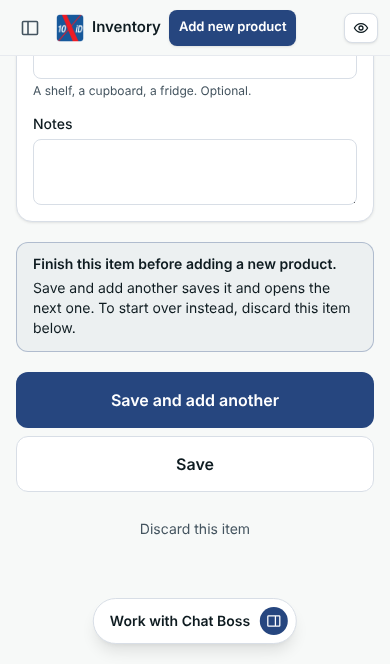
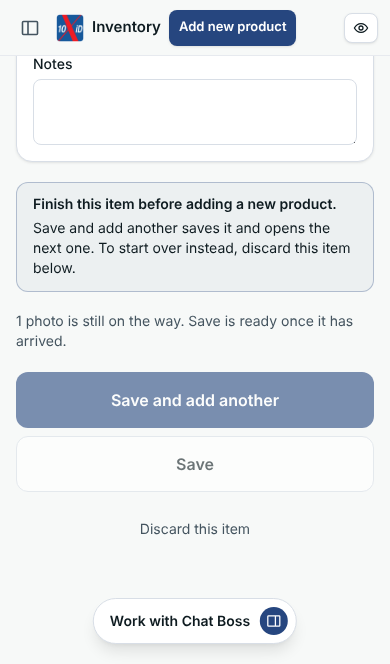
app#41 evidence at c88283f, extended: 47/47 — a photo waiting offline, the same link again after scrolling away, typed status and amounts kept, saved and discarded pages, the menu at 320 px
Claude-Session: https://claude.ai/code/session_01UhNSkxnQSh2VTsm9m65vyB

diff --git a/app41-c88283f/README.md b/app41-c88283f/README.md
@@ -1,10 +1,11 @@
 # app#41 · Add new product in the top bar — emulated iPhone evidence
 
-**43/43 checks passed** · app `c88283f` (production build `gJ5vR35VH3A4_ldgheP2b`, `next build --webpack`) · 2026-10-20T02:41:49.852Z
+**47/47 checks passed** · app `c88283f` (production build `gJ5vR35VH3A4_ldgheP2b`, `next build --webpack`) · 2026-10-20T02:50:24.253Z
 
 - Browser: Chromium 141.0.7390.37 (Playwright `devices["iPhone 13"]`: 390×664 CSS px, DPR 3, touch, iOS Safari user agent), and the same descriptor at 375×548, 360×640 and 320×480. **Desktop emulation, not Safari on an iPhone**: no real iOS keyboard, toolbar or safe area.
 - Scrolling: a finger dragged over `main` (CDP `Input.dispatchTouchEvent`), repeated until it stops moving.
 - Database: PostgreSQL 18.4 with 50 login migrations applied, built by rebuild-db.sh from login 631c28f + seed; app connects as portal_app (RLS). Media store and label reader are local stand-ins. Owner, business and photos are synthetic.
+- Offline on purpose (Q1–U5): the browser logged 5 failed request(s) while offline, listed in results.json and not counted as errors.
 
 | | Check | Detail |
 |---|---|---|
@@ -14,26 +15,29 @@
 | ✅ S1 | From the list, Add new product opens the start page; 4 taps and a plain GET make no item | items 0 before, 0 after; GET /inventory/capture 200 |
 | ✅ H4 | 390 px, start page: Add new product immediately right of Inventory, one line, nothing cut off or off the screen | title 92–161, Add new product 169–296.5 (8px after the title), Preview iD 344–378, icon only, mark shown, overflow 0/0 |
 | ✅ S2 | Start (the existing button) makes one item and opens its camera |  |
+| ✅ Q1 | Offline, a fourth photo waits on the phone (IndexedDB) and Save waits for it; everything typed is in the form | name "Synthetic cacao powder (test)", brand "Synthetic Co.", open / estimate 120, label 250 g, lot SYN-0001, photos 3 sent + 1 waiting, browser offline |
 | ✅ H5 | 390 px, item being catalogued: Add new product immediately right of Inventory, one line, nothing cut off or off the screen | title 92–161, Add new product 169–296.5 (8px after the title), Preview iD 344–378, icon only, mark shown, overflow 0/0 |
 | ✅ H6 | On an unsaved item, Add new product is the jump to the note on the same page | href #finish-this-item |
-| ✅ P1 | 390 px, long item page at the top: bar at the top, main below it | bar top 0px, main from 56px scrolled 0/1834px, frame scrolled 0px, page scrolled 0px |
-| ✅ P2 | Swiped to the bottom: only main scrolled; the bar is still at the top | bar top 0px, main from 56px scrolled 1834/1834px, frame scrolled 0px, page scrolled 0px |
-| ✅ U1 | Unsaved item, Add new product from the top of the page: same page, scrolled to the note above Save and add another | /inventory/capture/a6eff174-a8ba-4133-aeb9-1a219921be46#finish-this-item; note shown true, in view true; Save and add another in view true; Discard in view true |
+| ✅ P1 | 390 px, long item page at the top: bar at the top, main below it | bar top 0px, main from 56px scrolled 0/2418px, frame scrolled 0px, page scrolled 0px |
+| ✅ P2 | Swiped to the bottom: only main scrolled; the bar is still at the top | bar top 0px, main from 56px scrolled 2418/2418px, frame scrolled 0px, page scrolled 0px |
+| ✅ U1 | Unsaved item, Add new product from the top of the page: same page, scrolled to the note above Save and add another | /inventory/capture/78eacd32-29b3-40db-8901-7f883f778e7f#finish-this-item; note shown true, in view true; Save and add another in view true; Discard in view true |
 | ✅ U2 | The note has focus (read out by a screen reader); the bar stays on screen, above it | focused true, bar on screen true, note below the bar true |
-| ✅ U3 | Nothing lost or started: typed name, 3 photos and the open item as they were; no new item | name "Synthetic cacao powder (test)", photos 3, items 1 (was 1) |
+| ✅ U3 | Nothing lost or started: name, brand, Opened, about 120 g, label 250 g, lot, 3 photos sent and 1 still waiting on the phone; the item still open; no new item | name "Synthetic cacao powder (test)", brand "Synthetic Co.", open / estimate 120, label 250 g, lot SYN-0001, photos 3 sent + 1 waiting, browser offline; queued on the phone 1; items 1 (was 1) |
 | ✅ U4 | The note says to finish it with Save and add another, or discard it | Finish this item before adding a new product. Save and add another saves it and opens the next one. To start over instead, discard this item below. |
-| ✅ P3 | After the jump the bar is still at the top: only main moved | bar top 0px, main from 56px scrolled 1964/1964px, frame scrolled 0px, page scrolled 0px |
-| ✅ U5 | Tapped twice more: still the same item and form, still no new item |  |
-| ✅ F1 | Notes (near the end) focused from the top: scrolled into view in main, below the bar | {"top":339,"bottom":405,"barBottom":56,"mainBottom":664,"active":"notes"} |
-| ✅ N1 | Save and add another still saves, and opens the next item saying what was saved | item 1 confirmed; next item open |
+| ✅ P3 | After the jump the bar is still at the top: only main moved | bar top 0px, main from 56px scrolled 2548/2548px, frame scrolled 0px, page scrolled 0px |
+| ✅ U5 | Scrolled away (the note off screen, focus in Name), the same link tapped again: back at the note, focused again; the form and the waiting photo unchanged; no new item | note was off screen true; now in view true, focused true, bar on screen true; name "Synthetic cacao powder (test)", brand "Synthetic Co.", open / estimate 120, label 250 g, lot SYN-0001, photos 3 sent + 1 waiting, browser offline |
+| ✅ Q2 | Back online, the waiting photo is sent on its own (4 photos, none left on the phone); Save is ready; the form as typed | name "Synthetic cacao powder (test)", brand "Synthetic Co.", open / estimate 120, label 250 g, lot SYN-0001, photos 4 sent + 0 waiting, browser online |
+| ✅ F1 | Notes (near the end) focused from the top: scrolled into view in main, below the bar | {"top":338,"bottom":404,"barBottom":56,"mainBottom":664,"active":"notes"} |
+| ✅ N1 | Save and add another still saves what was typed (Opened), and opens the next item saying what was saved | item 1 confirmed; container {"status":"open","label":250,"unit":"g","lot":"SYN-0001","name":"Synthetic cacao powder (test)"}; next item open |
 | ✅ N2 | The next item arrives with the note hidden |  |
 | ✅ U6 | On the next item (still empty) Add new product shows the note too, and starts nothing |  |
 | ✅ U7 | Discard this item discards it and returns to the list |  |
 | ✅ H7 | 390 px, list with an item: Add new product immediately right of Inventory, one line, nothing cut off or off the screen | title 92–161, Add new product 169–296.5 (8px after the title), Preview iD 344–378, icon only, mark shown, overflow 0/0 |
-| ✅ H8 | A saved item's page: Add new product goes to the start page | href /inventory/capture |
+| ✅ H8 | A saved item's page: Add new product opens the start page; no item made | "Saved" shown true; href /inventory/capture; items 2 → 2 |
+| ✅ H8b | A discarded item's page: Add new product opens the start page; no item made | "Discarded" shown true; href /inventory/capture; items 2 → 2 |
 | ✅ H9 | 390 px, container page: Add new product immediately right of Inventory, one line, nothing cut off or off the screen | title 92–161, Add new product 169–296.5 (8px after the title), Preview iD 344–378, icon only, mark shown, overflow 0/0 |
-| ✅ P4 | 390 px, container page at the top: bar at the top | bar top 0px, main from 56px scrolled 0/1271px, frame scrolled 0px, page scrolled 0px |
-| ✅ P5 | Swiped to the bottom of the container page: the bar is still at the top | bar top 0px, main from 56px scrolled 1271/1271px, frame scrolled 0px, page scrolled 0px |
+| ✅ P4 | 390 px, container page at the top: bar at the top | bar top 0px, main from 56px scrolled 0/1367px, frame scrolled 0px, page scrolled 0px |
+| ✅ P5 | Swiped to the bottom of the container page: the bar is still at the top | bar top 0px, main from 56px scrolled 1367/1367px, frame scrolled 0px, page scrolled 0px |
 | ✅ M1 | From the bottom of the page the menu opens, with Inventory and iD | 10XiD, Home, Orders, Quotes, Jobs, Inventory, Products, Customers, Growth, Discounts, Content, Markets, Finance, Analytics, Channels, iD, Add channel, Team, Settings |
 | ✅ S3 | From the bottom of a container page, Add new product opens the start page; no item made | items 2 → 2 |
 | ✅ W375a | 375 px, inventory list: Add new product immediately right of Inventory, one line, nothing cut off or off the screen | title 92–161, Add new product 169–296.5 (8px after the title), Preview iD 329–363, icon only, mark shown, overflow 0/0 |
@@ -45,7 +49,8 @@
 | ✅ W320a | 320 px, inventory list: Add new product immediately right of Inventory, one line, nothing cut off or off the screen | title 92–161, Add new product 169–296.5 (8px after the title), Preview iD not in the bar, mark shown, overflow 0/0 |
 | ✅ W320b | 320 px: Preview iD leaves the bar, and iD is in the menu | title 92–161, Add new product 169–296.5 (8px after the title), Preview iD not in the bar, mark shown, overflow 0/0 |
 | ✅ W320c | 320 px, container page: Add new product immediately right of Inventory, one line, nothing cut off or off the screen | title 92–161, Add new product 169–296.5 (8px after the title), Preview iD not in the bar, mark shown, overflow 0/0 |
-| ✅ W320d | 320 px, container page swiped to the bottom: the bar is still at the top | bar top 0px, main from 56px scrolled 1524/1524px, frame scrolled 0px, page scrolled 0px |
+| ✅ W320d | 320 px, container page swiped to the bottom: the bar is still at the top | bar top 0px, main from 56px scrolled 1580/1580px, frame scrolled 0px, page scrolled 0px |
+| ✅ W320g | 320 px: from the bottom of the page the menu opens, with Inventory and iD | 10XiD, Home, Orders, Quotes, Jobs, Inventory, Products, Customers, Growth, Discounts, Content, Markets, Finance, Analytics, Channels, iD, Add channel, Team, Settings |
 | ✅ W320e | 320 px, item being catalogued: Add new product immediately right of Inventory, one line, nothing cut off or off the screen | title 92–161, Add new product 169–296.5 (8px after the title), Preview iD not in the bar, mark shown, overflow 0/0 |
 | ✅ W320f | 320 px, unsaved item: Add new product stays, the note is in view with Save and add another, the name is kept | note in view true, Save and add another in view true, bar on screen true, name "Synthetic matcha (test)" |
 | ✅ R1 | The start page lists the item left unsaved at 320 px, to carry on with | 1 listed |
@@ -58,15 +63,21 @@
 
 **390 px · Add new product from the list: the existing start page (Start, and items started and not saved)**<br><img src="screens/390-start-page.png" width="390">
 
-**390 px · An item being catalogued, top: three synthetic photos sent, name typed**<br><img src="screens/390-capture-top.png" width="390">
+**390 px · An item being catalogued, top: three photos sent, a fourth waiting on the phone (offline)**<br><img src="screens/390-capture-top.png" width="390">
 
 **390 px · Same item, bottom: Save and add another, Save, Discard; the bar is still at the top**<br><img src="screens/390-capture-bottom.png" width="390">
 
 **390 px · Add new product on an unsaved item: the page stays, the note says to finish it or discard it**<br><img src="screens/390-capture-note.png" width="390">
 
+**390 px · Scrolled away and tapped again: back at the note**<br><img src="screens/390-capture-note-again.png" width="390">
+
 **390 px · After Save and add another: the next item, “Saved: … Now the next one.”**<br><img src="screens/390-next-item.png" width="390">
 
 **390 px · Inventory with the saved item**<br><img src="screens/390-list.png" width="390">
+
+**390 px · A saved item's page: Add new product starts the usual way**<br><img src="screens/390-saved-item.png" width="390">
+
+**390 px · A discarded item's page: Add new product starts the usual way**<br><img src="screens/390-discarded-item.png" width="390">
 
 **390 px · A container's page, top**<br><img src="screens/390-container-top.png" width="390">
 
@@ -87,6 +98,8 @@
 **320 px · A container's page, top**<br><img src="screens/320-container-top.png" width="320">
 
 **320 px · Same page, bottom**<br><img src="screens/320-container-bottom.png" width="320">
+
+**320 px · The menu, opened from the bottom of the container page**<br><img src="screens/320-menu.png" width="320">
 
 **320 px · Add new product on an unsaved item**<br><img src="screens/320-capture-note.png" width="320">
 

diff --git a/README.md b/README.md
@@ -3,4 +3,4 @@
 Not product code; never merged.
 
 - [`app40-3072da3/`](app40-3072da3/README.md): app#40, purchase details, emulated iPhone, 20/20.
-- [`app41-c88283f/`](app41-c88283f/README.md): app#41, Add new product in the top bar, emulated iPhone at 390/375/360/320 px, 43/43.
+- [`app41-c88283f/`](app41-c88283f/README.md): app#41, Add new product in the top bar, emulated iPhone at 390/375/360/320 px, 47/47.
